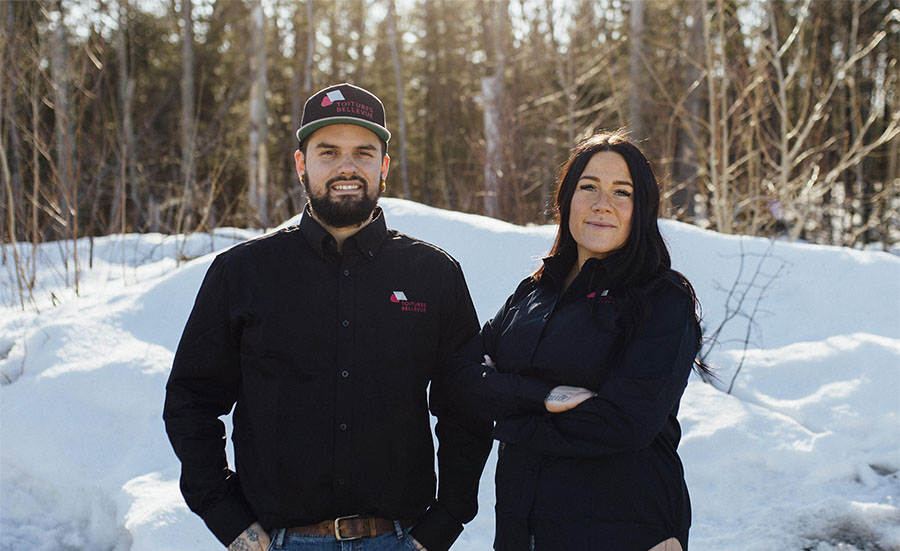
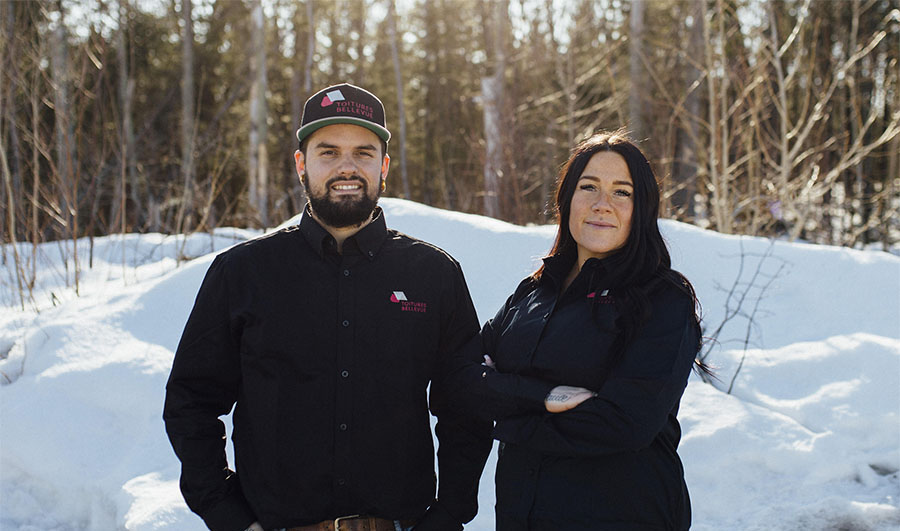
Updated team photo

diff --git a/a-propos.php b/a-propos.php
@@ -90,11 +90,11 @@
 				</div>
 			</section>
 
-			<img srcset="/assets/media/team-photo.jpg?v=2 1920w,
-			/assets/media/team-photo-mobile.jpg?v=2 900w"
+			<img srcset="/assets/media/team-photo.jpg?v=3 1920w,
+			/assets/media/team-photo-mobile.jpg?v=3 900w"
      sizes="(max-width: 1080px) 900px,
             1920px"
-			src="/assets/media/team-photo.jpg?v=2" alt="Pascal Perron et Vanessa Plamondon, fondateurs de Toitures Bellevue" width="100%">
+			src="/assets/media/team-photo.jpg?v=3" alt="Pascal Perron et Vanessa Plamondon, fondateurs de Toitures Bellevue" width="100%">
 		</main>
 
 		<?php include 'parts/footer.php' ?>
